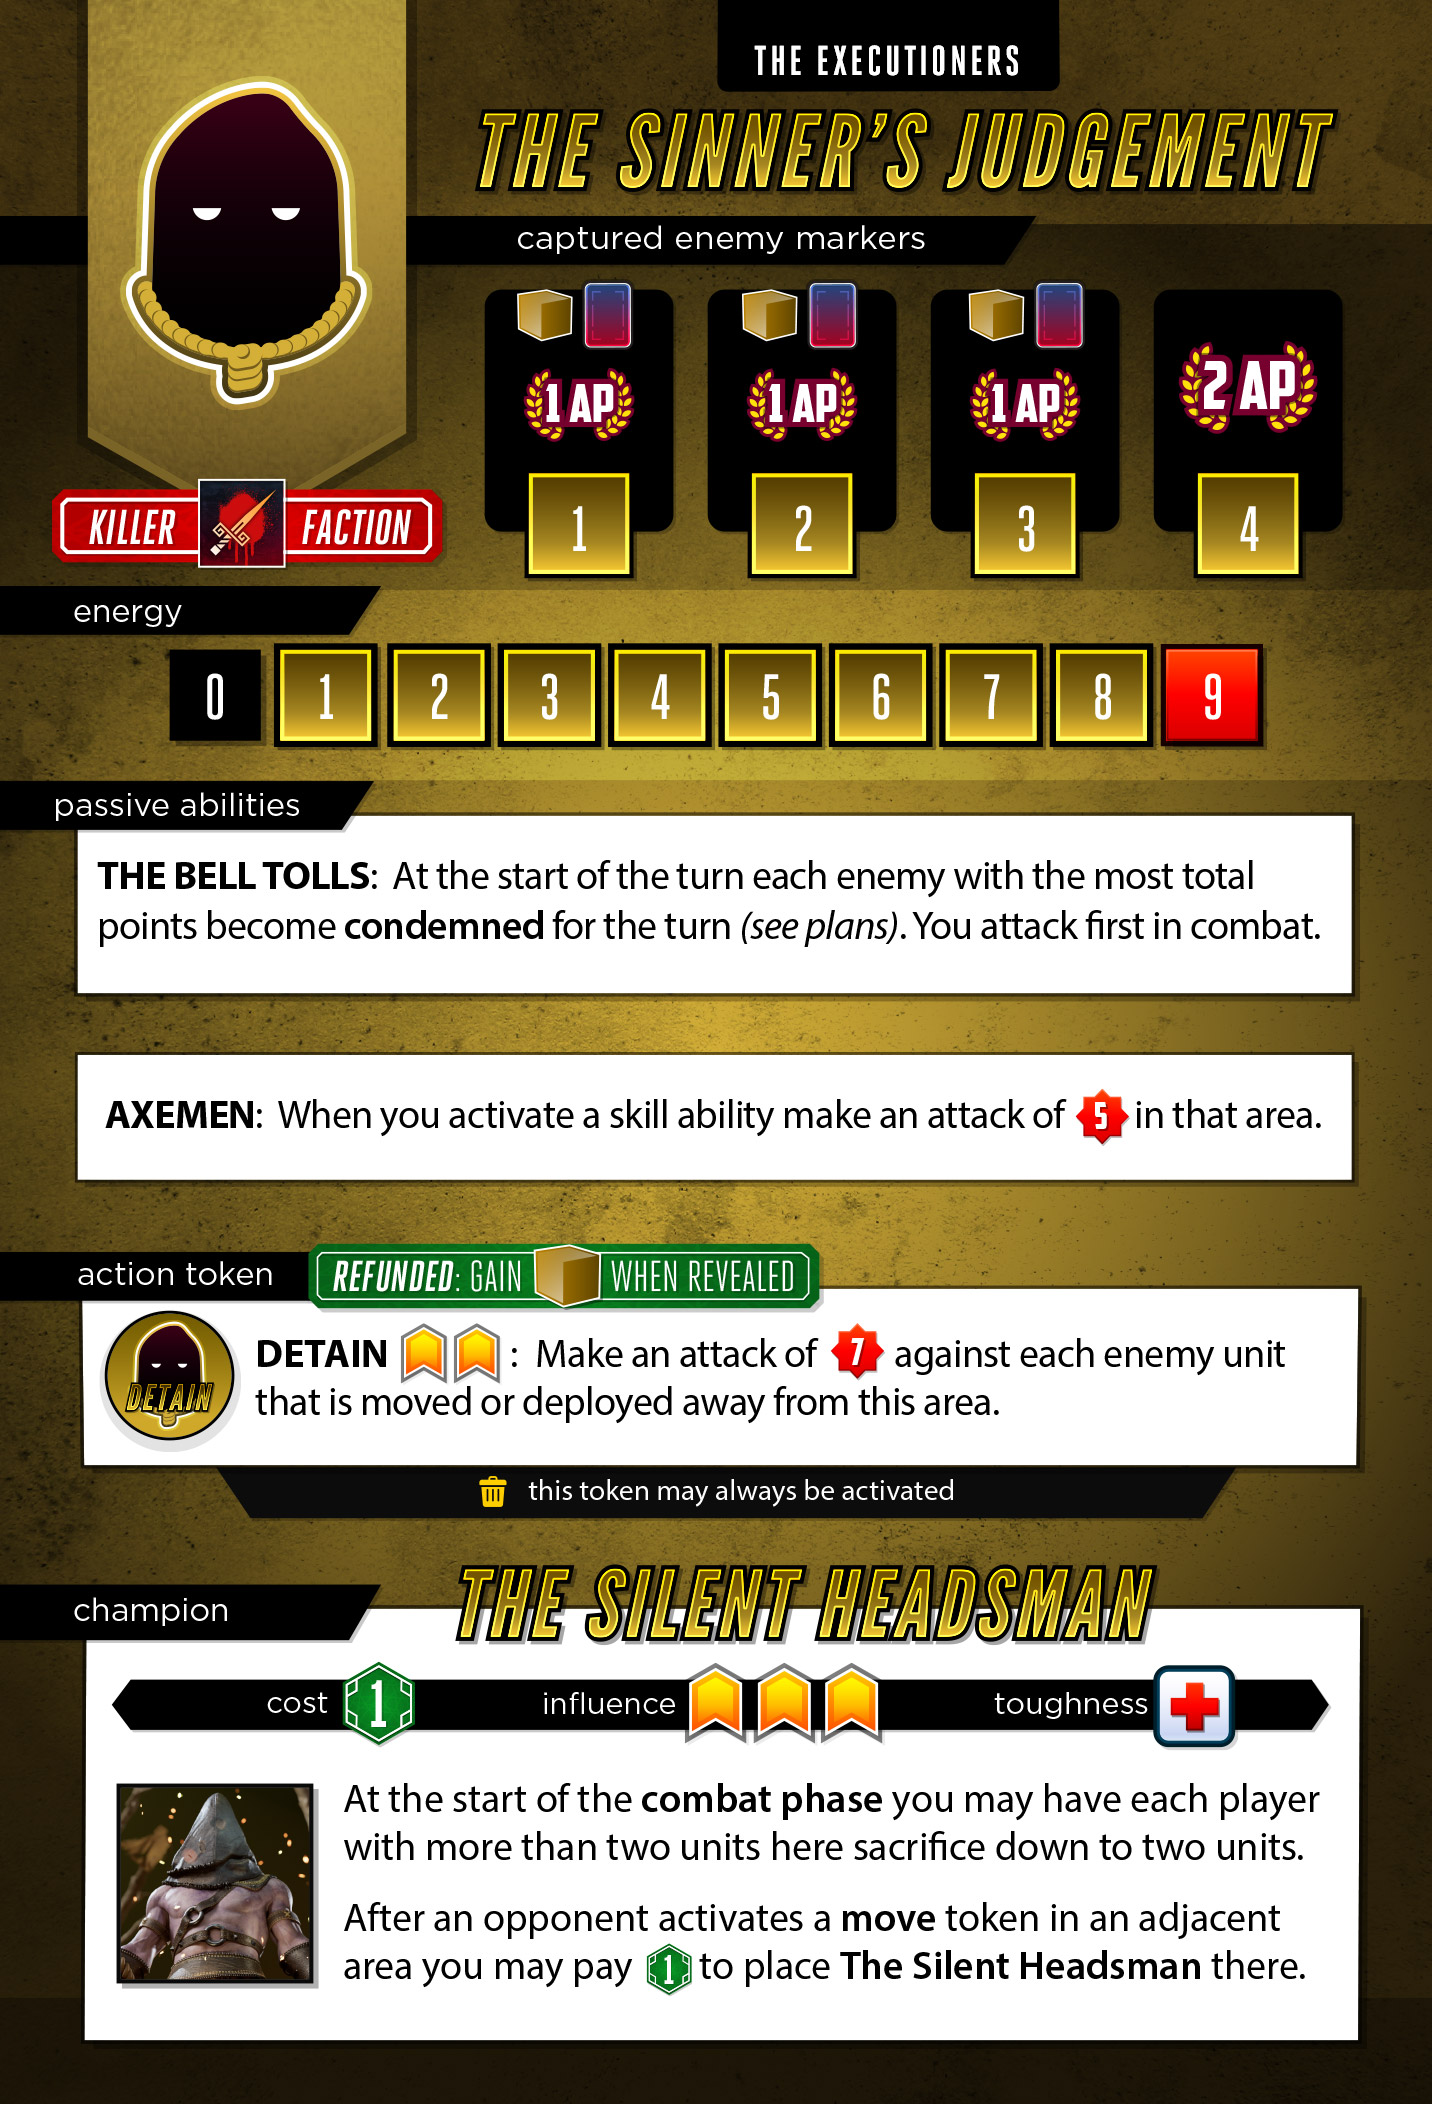
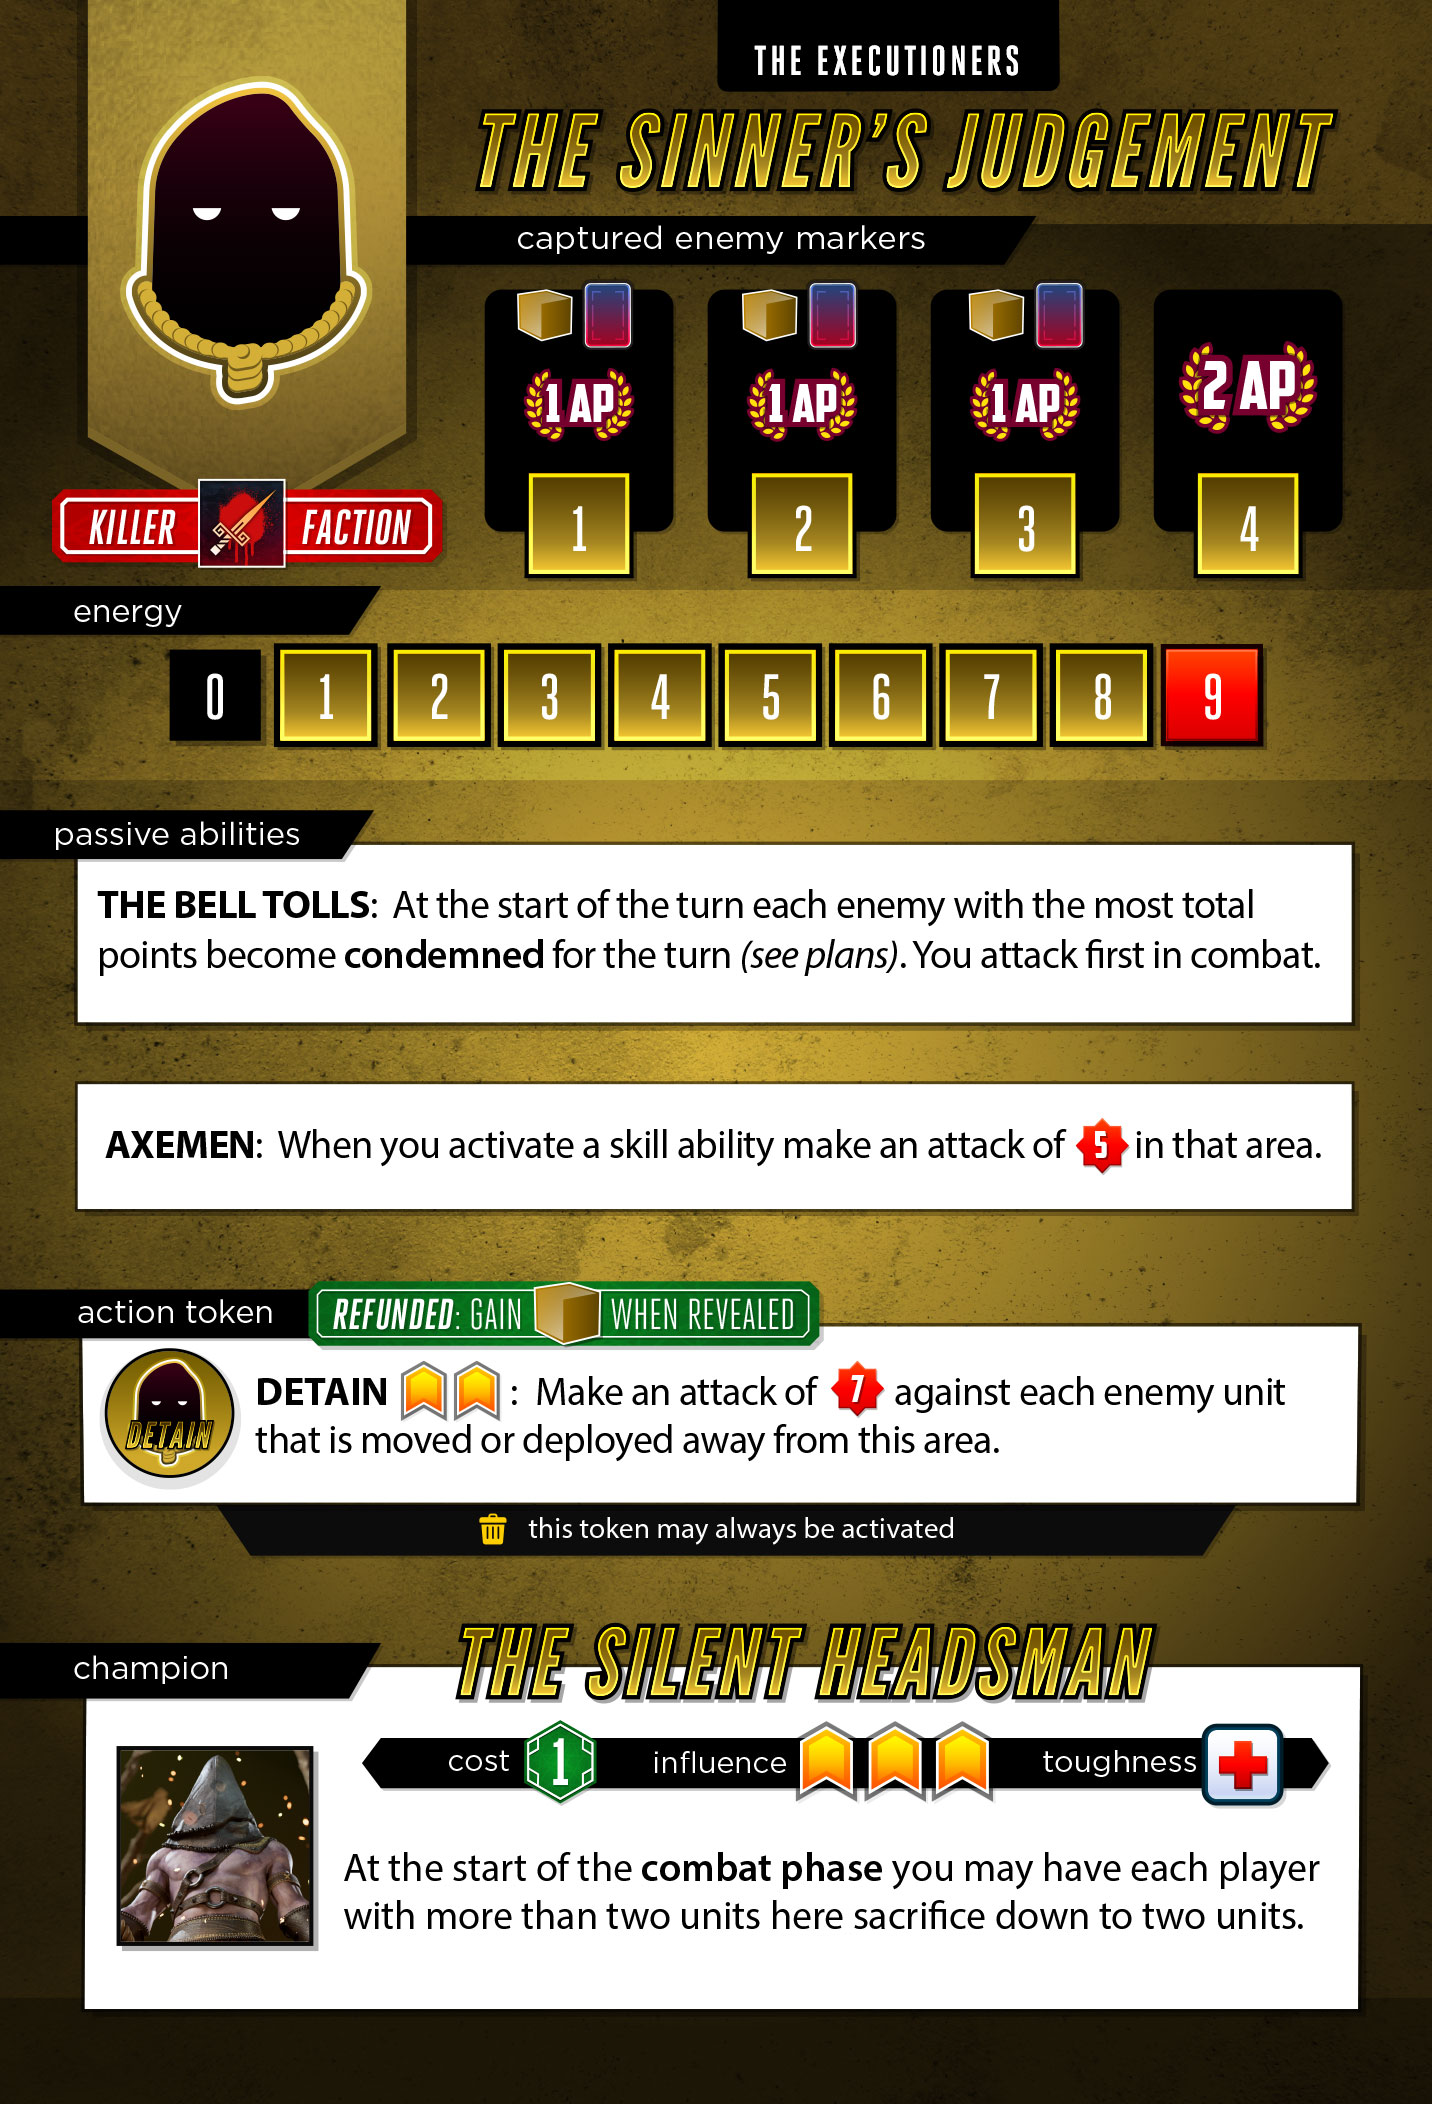
Remove move from executioner boss

Changed region(s): [[0.0, 0.3707, 0.9525, 0.9886]]

diff --git a/server/classes/factions/Executioners.js b/server/classes/factions/Executioners.js
@@ -10,7 +10,7 @@ class Executioners extends Faction {
         this.triggers = {
             "onStartOfTurn" : "chooseCondemned",
             "onBeforeCombatStep" : "headsmanExecute",
-            "onAfterActivateToken" : "headsmanMove",
+            // "onAfterActivateToken" : "headsmanMove",
             "onMoveAll" : "checkForDetain",
             "onDeployAll" : "checkForDetain",
             "onAfterSkill" : "afterSkillAttack",
@@ -244,7 +244,7 @@ class Executioners extends Faction {
      *
      * @param token
      * @returns {Promise<void>}
-     */
+     *
     async headsmanMove( token ){
         if(token.faction === this.name || token.type !== 'move') return;
 
@@ -268,6 +268,7 @@ class Executioners extends Faction {
         this.message( 'The Silent Headsman deciding whether to follow the move' );
         await this.chooseToFollow( headsman, area );
     }
+    */
 
     /**
      *
